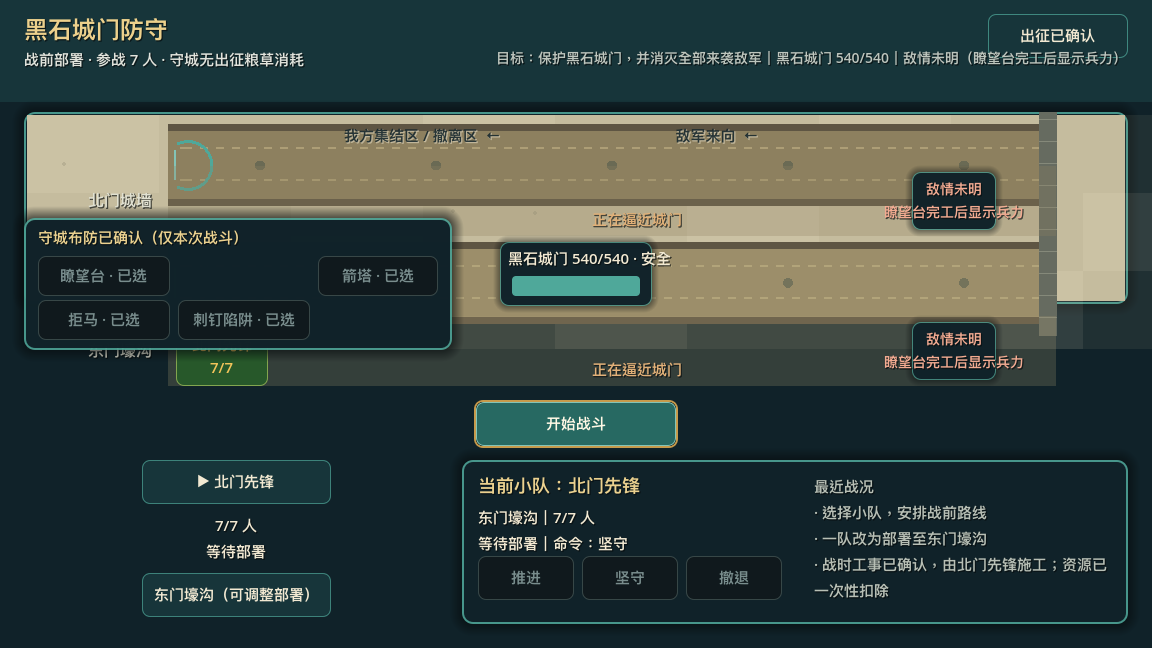
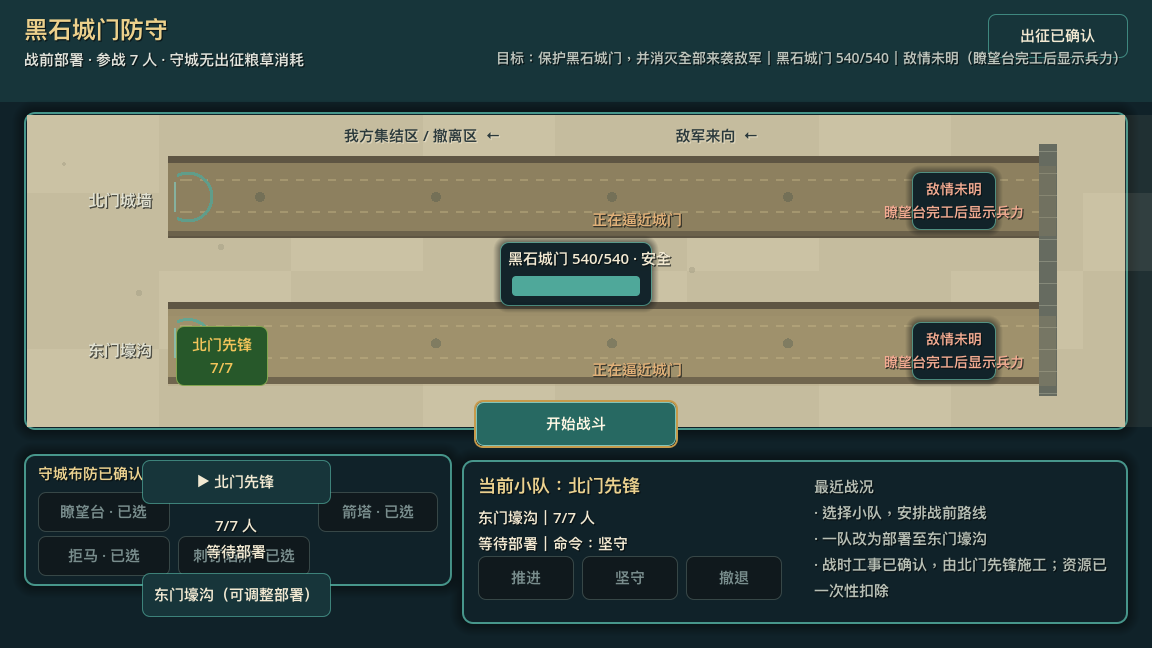
Keep wartime controls clear of battle routes

diff --git a/CURRENT_STATE.md b/CURRENT_STATE.md
@@ -12,6 +12,8 @@
 
 施工中的拒马、箭塔或瞭望台不再是不可破坏的占位物：敌军抵达同一路线时，会先中断该路线尚未完工的拒马、箭塔或瞭望台，记录可保存的 `INTERRUPTED` 状态，设施在此之前不提供减伤、火力或观察。每项正式确认的战时施工会冻结玩家当前选中的真实已承诺小队作为施工分队，Controller 在扣除建设资源前再次核验该小队属于本次冻结阵容；该分队撤退或失去行动能力时，工程同样进入中断态，不会凭空继续完工。维修同样绑定玩家当前选择的一支存活既有参战小队；无效选择会在资源事务前拒绝，仍不创建第二套工程师或兵员账本。维修也属于未完工的真实路线工作：敌军抵达时会先中断维修中的工事，不能在脚下无条件恢复防护；中断态、分队身份和耐久都由同一活动快照保存。该状态的维修与其他受损设施共享既有正式事务和两刻工期；完成后才恢复为 `ACTIVE`。同类工事现在按“类型＋实际路线”唯一：玩家可在前线、侧翼各部署一座瞭望台或箭塔，面板只对当前所选路线显示已选状态；两条路线的观察与箭塔伤害都在同一战斗刻分别投影和结算，恢复后保留相同工事身份。敌军到达后会在每个真实战斗刻从同一路线剩余的合法目标重新选择：拒马、箭塔失效后，下一次攻击明确转向瞭望台，而不会继续对已摧毁箭塔投射历史伤害或齐射。守城还新增路线专属的刺钉陷阱：正式面板选择并确认后施工两刻，敌军实际抵达该路线时只触发一次 80 点真实伤害，消耗自身记录；围城来源被权威拒绝使用，恢复也不会重播历史触发。定向战斗刻验证覆盖“抵达 → 中断未完工拒马 → 无提前防护 → 施工分队退出 → 恢复快照 → 正式维修 → 完工恢复”、双路线同类工事和一次性陷阱；独立 H→I 与 J→K 进程链分别从正式守城入口保存敌军施工受阻、施工分队损失，冷启动后确认仍无防护且不凭空续建。这是路线内工事生命周期完善，不等于已完成道路断开或完整战时防守战役。
 
+守城 C0 现在将战前工事计划、施工状态和维修控件置于专用左下操作区；战场面板与该区之间保留明确间隔，避免“施工受阻／维修中”等反馈压住侧门路线。图形 smoke 用实际 `Control` 屏幕矩形在 1152×648、1280×720 与 1920×1080 检查计划和战中维修控件均不与战场重叠；此修整不改变路线坐标、战斗刻、资源事务或 V5 快照。
+
 独立 L→M 进程链进一步覆盖“正式维修已开始 → 同路线敌军抵达中断 → 保存退出 → 新进程恢复”：恢复后保留同一施工分队、`INTERRUPTED` 阶段和无拒马防护投影，不会自动完成维修。该链与既有 H→I 的初始施工中断、J→K 的施工分队损失链分开，避免把同进程快照恢复误报为冷恢复证据。
 
 新增隔离图形 smoke 以正式黑石城入口进入守城 C0，使用可见路线、工事确认及城门维修按钮，记录计划、施工、受损、维修中与完成五个根视口截图。证据位于 `docs/milestones/field-tactics-r2/evidence/20260912-wartime-defense-gate-repair/`：维修前城门为 `9730/10000`，两战斗刻后为 `9850/10000`，截图与断言均确认不提前恢复。相同正式入口的后续截帧位于 `docs/milestones/field-tactics-r2/evidence/20260912-wartime-defense-construction-interruption/`，其中敌军在拒马完工前抵达时会显示“施工受阻 1/3 · 耐久 165/180”，且未生成拒马阻挡投影。两组证据都使用引擎 GUI 按钮信号和显式的测试战斗刻加速；前者还使用受控敌军到达以缩短空白行军。它们不冒充原生 macOS 鼠标或完整守城玩家验收；玩家验收保持 **OPEN**。

diff --git a/docs/milestones/field-tactics-r2/evidence/20260912-wartime-defense-spike-trap/VERIFICATION.md b/docs/milestones/field-tactics-r2/evidence/20260912-wartime-defense-spike-trap/VERIFICATION.md
@@ -15,19 +15,27 @@ Godot --path . --rendering-driver opengl3 \
 
 OpenGL API 4.1 Metal - Compatibility - Apple M4
 PASS: visible defense planning
+PASS: plan controls do not cover the battle routes at 1152x648, 1280x720, or 1920x1080
 PASS: formal confirmation and construction
 PASS: visible battle tick interrupts a barricade before completion
+PASS: interrupted-work status and repair controls stay outside the side route
 PASS: visible battle tick triggers a completed spike trap once at route arrival
-PASS: formal facility repair names and saves the selected committed crew
-PASS: visible formal gate repair starts saved time
+PASS: visible formal gate repair starts saved time without covering the routes
 PASS: true tick repair
-WARTIME_DEFENSE_GRAPHICAL_SMOKE PASS assertions=7
+WARTIME_DEFENSE_GRAPHICAL_SMOKE PASS assertions=12
 ```
 
 The runner enters C0 through the normal Blackstone city entry, uses the visible
 route and facility-plan controls, confirms through the formal request, and
 captures a rendered frame after each UI refresh. It uses an isolated V5 save
 directory and does not access a retained candidate save.
+
+The current candidate reserves a left-bottom action rail for the plan, focused
+facility status, and repair controls. The battle canvas retains an explicit
+gap above that rail, so construction/repair feedback no longer sits on top of
+the side-route geometry. This is a presentation-only layout adjustment: route
+coordinates, battle ticks, resource transactions, and save ownership are
+unchanged.
 
 ## Captures
 

diff --git a/CHANGELOG.md b/CHANGELOG.md
@@ -1,5 +1,16 @@
 # Changelog
 
+## 2026-09-12 - Readable wartime defense action rail
+
+- Moved the temporary-facility plan, focused facility status, and repair
+  controls into a reserved left-bottom action rail. The battlefield now keeps
+  an explicit gap above that rail, preventing construction and repair feedback
+  from covering the side route.
+- Added graphical geometry checks for the planning rail at 1152x648,
+  1280x720, and 1920x1080, plus live repair/gate-repair controls. This changes
+  only presentation layout; routes, combat state, transactions and snapshots
+  remain under their existing owners.
+
 ## 2026-09-12 - Wartime defense target handoff coverage
 
 - Strengthened the reached-invader defense regression to inspect the actual
